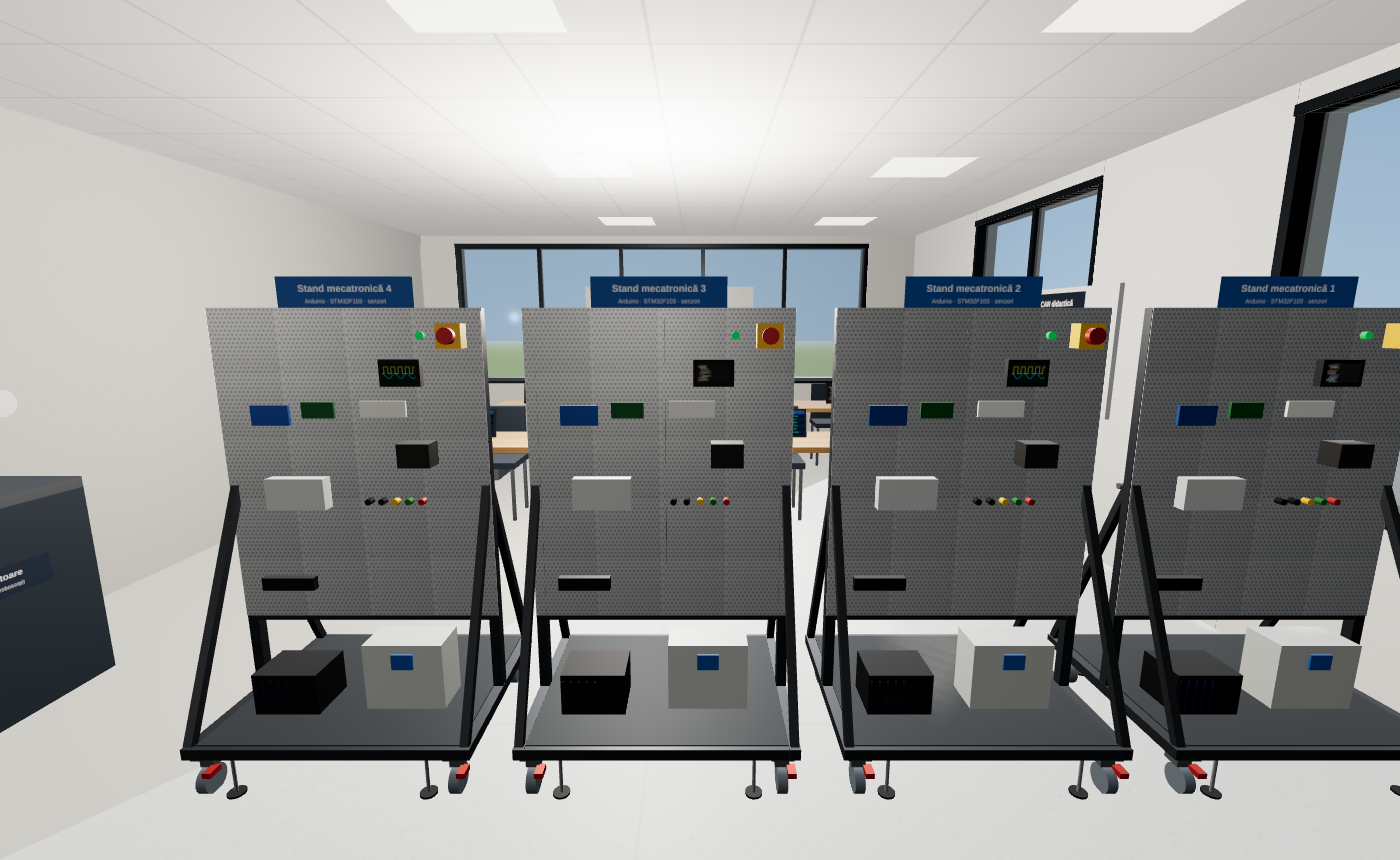
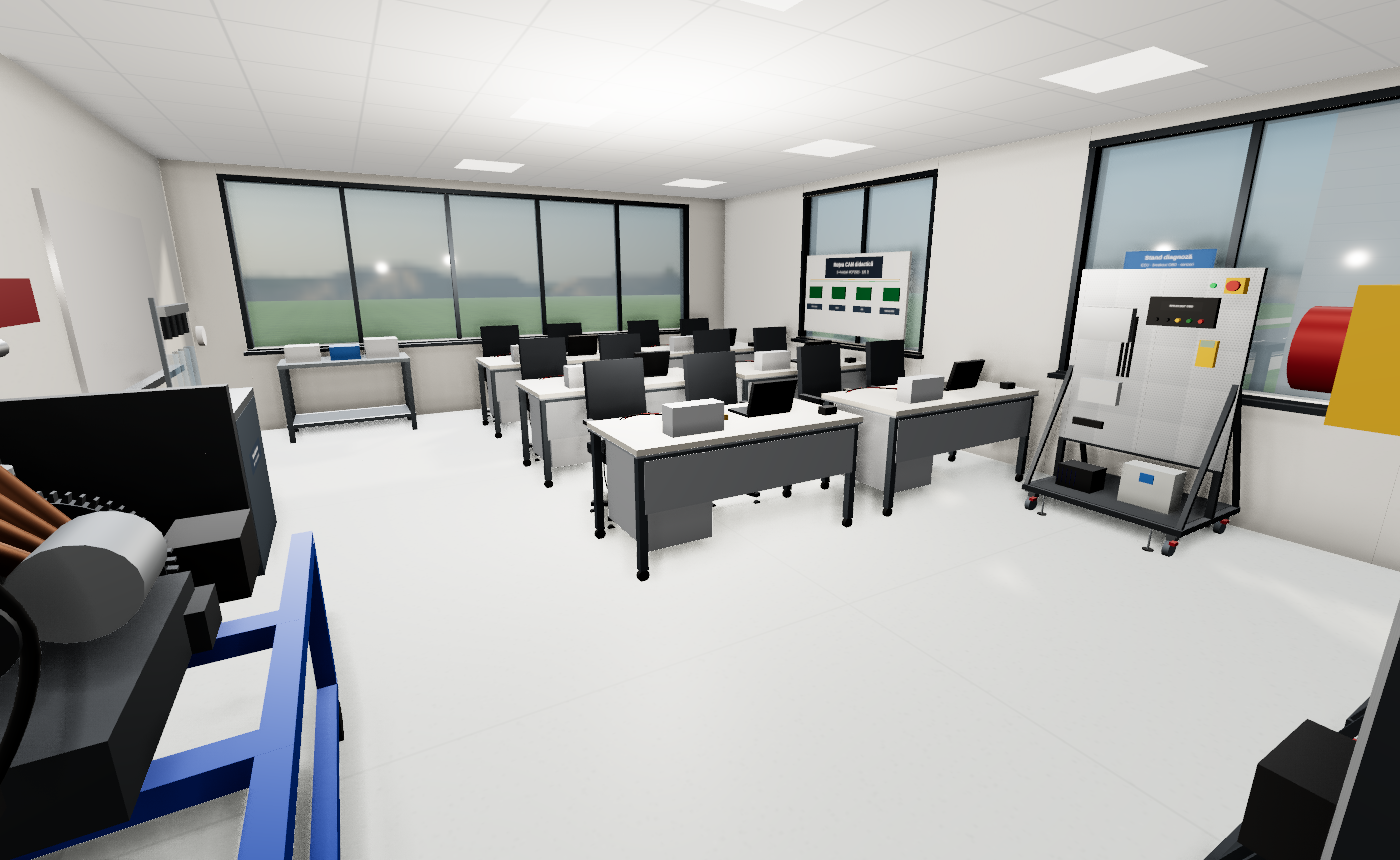
E01 Diagnosticare + Mecatronică amenajată după imaginea concept
- standurile mobile (proiect propriu) aliniate ca perete de panouri la fundul sălii
- mese de laborator pe 3 rânduri cu fața spre panouri: blat laminat, cadru pe roți, sertare, laptop cu forme de undă, osciloscop de banc, multimetru, cabluri
- motor 1.6 8V pe stand albastru pentru diagnoză, dulap de scule albastru, tablă albă, masă cu aparate

Claude-Session: https://claude.ai/code/session_01TZFbCrNL5Qe3p3aSQB4Bo5

diff --git a/js/equipment.js b/js/equipment.js
@@ -287,6 +287,22 @@ function pcDesk(kind = 'cad', seed = 1) {
 }
 function labScope(seed = 1) { const g = new THREE.Group(); B(g, 0.34, 0.17, 0.13, C(0xd9dcdf, { roughness: 0.5 }), 0, 0, 0); screen(g, 0.17, 0.11, 'scope', seed, -0.06, 0.03, 0.066); for (let i = 0; i < 6; i++) Cy(g, 0.01, 0.01, C(0x333), 0.07 + (i % 2) * 0.05, 0.04 + Math.floor(i / 2) * 0.04, 0.07, 'z', 10); for (let i = 0; i < 4; i++) Cy(g, 0.007, 0.012, [MAT.yellow, C(0x22aaee), C(0xdd44aa), MAT.green][i], -0.12 + i * 0.045, 0.015, 0.07, 'z', 10); return g; }
 function benchPSU() { const g = new THREE.Group(); B(g, 0.22, 0.13, 0.25, C(0x2b2f33), 0, 0, 0); B(g, 0.09, 0.04, 0.005, C(0x0a0a0a), -0.05, 0.08, 0.126); plate(g, '12.00 V', '', 0.08, -0.05, 0.1, 0.13, 0, '#300'); Cy(g, 0.008, 0.012, MAT.red, 0.06, 0.03, 0.13, 'z', 8); Cy(g, 0.008, 0.012, MAT.black, 0.085, 0.03, 0.13, 'z', 8); return g; }
+function labDesk(seed = 0) {   // masă de laborator: blat laminat deschis, cadru gri pe roți, corp cu sertare, aparatură și cabluri
+  const g = new THREE.Group(); const top = C(0xe4e0d6, { roughness: 0.45 }), fr = C(0x5d656c, { metalness: 0.5, roughness: 0.4 });
+  B(g, 1.6, 0.035, 0.75, top, 0, 0.74, 0); B(g, 1.6, 0.012, 0.75, C(0x9aa0a6), 0, 0.728, 0);
+  for (const x of [-0.76, 0.76]) for (const z of [-0.33, 0.33]) { B(g, 0.05, 0.66, 0.05, fr, x, 0.07, z); Cy(g, 0.035, 0.03, MAT.rubber, x, 0.035, z, 'z', 12); }
+  B(g, 1.5, 0.05, 0.05, fr, 0, 0.68, -0.33); B(g, 1.5, 0.3, 0.012, C(0xb9bec3, { metalness: 0.3 }), 0, 0.4, -0.35);
+  B(g, 0.42, 0.55, 0.6, C(0xc9cdd1, { metalness: 0.3 }), 0.5, 0.15, 0); for (let i = 0; i < 3; i++) { B(g, 0.4, 0.16, 0.01, C(0xd5d8db), 0.5, 0.18 + i * 0.18, 0.305); B(g, 0.12, 0.012, 0.012, MAT.dark, 0.5, 0.3 + i * 0.18, 0.31); }
+  const lt = laptop(seed * 3 + 1); lt.position.set(-0.3, 0.775, 0.08); g.add(lt);
+  lt.traverse(o => { if (o.isMesh && o.material.map) o.material = scr('scope', seed + 40); });
+  const sc = labScope(seed + 11); sc.position.set(0.35, 0.775, -0.18); g.add(sc);
+  B(g, 0.08, 0.035, 0.15, MAT.yellow, 0.05, 0.775, 0.05);                                              // multimetru
+  for (const [c, dx] of [[MAT.red, 0], [C(0x111111), 0.03]]) { const cv = new THREE.CatmullRomCurve3([new THREE.Vector3(0.1 + dx, 0.79, -0.1), new THREE.Vector3(0.2 + dx, 0.8, 0.1), new THREE.Vector3(0.6 + dx, 0.76, 0.33), new THREE.Vector3(0.65 + dx, 0.3, 0.36), new THREE.Vector3(0.4 + dx, 0.05, 0.3)]); const m = new THREE.Mesh(new THREE.TubeGeometry(cv, 24, 0.004, 6), c); g.add(m); }
+  B(g, 0.1, 0.05, 0.07, C(0x222222), -0.65, 0.775, -0.2);                                              // adaptor USB-CAN / interfață
+  for (const x of [-0.4, 0.4]) { const c = officeChair(); c.position.set(x, 0, 0.62); c.rotation.y = Math.PI; g.add(c); }
+  return g;
+}
+function instrumentTable() { const g = steelTable(1.2, 0.6, 0.8); const box = (w, h, d, x, z, col, sk, sd) => { B(g, w, h, d, C(col, { roughness: 0.5 }), x, 0.8, z); if (sk) screen(g, w * 0.45, h * 0.45, sk, sd, x - w * 0.18, 0.8 + h * 0.3, z + d / 2 + 0.002); }; box(0.32, 0.2, 0.3, -0.35, 0, 0xd9dcdf, 'scope', 71); box(0.28, 0.14, 0.28, 0.0, 0, 0x2b6cb0, 'diag', 72); box(0.3, 0.16, 0.28, 0.38, 0, 0xe6e9ea, 'scope', 73); return g; }
 function tvDisplay(w = 1.9, kind = 'cad', seed = 90) { const g = new THREE.Group(); B(g, w, w * 0.57, 0.05, C(0x111214), 0, 1.0, 0); const sc = new THREE.Mesh(new THREE.PlaneGeometry(w - 0.04, w * 0.57 - 0.04), scr(kind, seed)); sc.position.set(0, 1.0 + w * 0.285, 0.026); g.add(sc); return g; }
 function whiteboard(w = 3) { const g = new THREE.Group(); B(g, w, 1.2, 0.03, C(0xfafafa, { roughness: 0.15 }), 0, 0.9, 0); B(g, w, 0.05, 0.1, MAT.alu, 0, 0.88, 0.05); return g; }
 function projectorScreen(w = 2.4) { const g = new THREE.Group(); B(g, w + 0.1, 0.1, 0.1, MAT.white, 0, 2.6, 0); B(g, w, 1.5, 0.005, C(0xffffff, { emissive: 0x111111 }), 0, 1.1, 0.04); return g; }
@@ -784,7 +800,6 @@ export function buildEquipment(scene) {
   // ===================== P03 LABORATOR PCMAI + CCMAI (x 14.15–19.8, y 0.2–16.14)
   put(engineStand('MPI'), 15.9, 16.0, 0, 0, info('Stand motor Otto 1.4 MPI (K7J, injecție multipunct)', D.PCMAI + ' · ' + D.DA + ' · ' + D.SAA, ['PCMAI – caracteristici, raport de compresie', 'Diagnosticare L1–L4 (AVL, senzori, actuatori, etanșeitate)', 'SAA L1–L2 (consum, injecție), L4 ungere, L5 răcire, L7 demaror'], 'Caiet de sarcini Laborator Motoare Termice; îndrumare SAA/Diagnosticare 2026-2027'));
   put(engineStand('dCi'), 18.5, 16.0, 0, 0, info('Stand motor Diesel 1.5 dCi (common rail, turbo)', D.CCMAI + ' · ' + D.DA + ' · ' + D.SAA, ['Diagnosticare L5 – sistem de alimentare MAC / EGR', 'SAA L3 injecție diesel, L6 turbosuflantă cu geometrie variabilă', 'CCMAI – construcția mecanismului motor'], 'Caiet de sarcini Laborator Motoare Termice; îndrumar SAA 2026-2027'));
-  put(engineStand('8V'), 17.2, 18.9, 180, 0, info('Stand motor 1.6 8V cu senzoristică', D.DA, ['Diagnosticare L2 – metode de diagnosticare a senzorilor', 'Diagnosticare L3 – diagnosticarea actuatorilor'], 'Îndrumar Diagnosticare 2026-2027, tabel echipamente'));
   put(smartCutaway(), 16.6, 2.6, 0, 0, info('Machetă secționată Smart ForTwo', D.BAZ + ' · ' + D.DA + ' · ' + D.CCA, ['Bazele ingineriei – identificarea subsistemelor', 'Diagnosticare L1, L6 – sisteme activate din telecomandă', 'CCA – transmisie, direcție, frâne'], 'Caiet de sarcini Laborator Motoare Termice (Fig. 1); îndrumar Diagnosticare'));
   put(avlStation(), 17.0, 12.2, 180, 0, info('Stația AVL DiTEST (DiScope 200, analizor gaze, opacimetru)', D.DA + ' · ' + D.PCMAI, ['Diagnosticare L1 – motoare termice cu standul AVL', 'L1–L5: semnale, compresie relativă, emisii', 'Achiziția simultană a min. 10 parametri'], 'Caiet de sarcini Laborator Motoare Termice; Ghid AVL'));
   put(studentDesk(1.8), 16.1, 6.4, 0, 0, info('Loc de lucru studenți (10 locuri)', D.PCMAI + ' · ' + D.CCMAI, ['Măsurători, referate, proiecte PCMAI / CCMAI'], 'Caiet de sarcini: „locuri de lucru pentru 10 studenți”; DXF A01'));
@@ -812,7 +827,7 @@ export function buildEquipment(scene) {
   put(electricalPanel(), 22.4, 19.6, 180, 0, info('Tablou electric general (TEG)', 'Instalații', ['Alimentare hale, laboratoare, stație ITP'], 'Concept'));
   put(boilerUnit(), 23.6, 19.5, 180, 0, null);
 
-  // ===================== ETAJ – E01 DIAGNOSTICARE + MECATRONICĂ (x 0.2–6.63, y 0.2–8.8)
+  // ===================== ETAJ – E01 DIAGNOSTICARE + MECATRONICĂ (x 0.2–6.63, y 0.2–8.8) – amenajare după imaginea concept
   const SRC_ST = 'Proiect_stand_mobil_panou_perforat.pdf (Beldugan 2026-2027) – cadru 1700×1000×800, tablă Al perforată; imagini ST1–ST12, BB1–BB5';
   const MECA = [
     ['L01 Microcontrolere: I/O, ADC, timere, PWM', 'L02 Condiționarea semnalelor', 'L03 Pedala de accelerație cu 2 piste', 'L04 Senzori de temperatură'],
@@ -820,12 +835,19 @@ export function buildEquipment(scene) {
     ['L08 IMU – accelerații, ruliu/tangaj', 'L09 Clapeta electronică: PWM, punte H, PID'],
     ['L10 CAN Bus – mesaje, arbitraj, decodare (USB-CAN)', 'MR4206 – ECU, ABS, ACC'],
   ];
-  [0.85, 2.0, 3.15, 4.3].forEach((x, i) => put(standMobil('meca', i + 1), x, 6.2, 180, 1, info('Stand mobil mecatronică nr. ' + (i + 1) + ' (proiect propriu)', D.MAM1 + ' · ' + D.MAM2, MECA[i], SRC_ST, 'Platformă dedicată Arduino + STM32F103 pe tabla perforată; 12 V pe panou, 230 V doar în cutia IP54 de pe poliță; E-stop la 1600 mm.')));
-  put(standMobil('diag', 5), 6.05, 3.6, -90, 1, info('Stand mobil diagnoză – ECU + breakout OBD (proiect propriu)', D.DA, ['L2 Metode de diagnosticare a senzorilor', 'L3 Diagnosticarea actuatorilor', 'L7 Magistrala CAN (pini 6/14, 120 Ω)'], SRC_ST + '; Lista dezmembrări Diagnosticare/MAM I'));
-  put(canBoard(), 0.25, 3.6, 90, 1, info('Rețea CAN didactică cu 3–4 noduri și gateway OBD-II', D.MAM1 + ' · ' + D.DA, ['Mecatronică L10', 'Diagnosticare L7 – magistrala de date CAN (terminare 120 Ω)'], 'Standuri lucrări de diplomă AR IV 2026-2027, nr. 12'), false);
-  put(injectorStand(), 6.1, 6.2, -90, 1, info('Stand verificare injectoare benzină', D.DA, ['Diagnosticare L4 – presiune, debit, menținerea presiunii', 'L2 – semnalul injectorului pe osciloscop'], 'Standuri lucrări de diplomă AR IV 2026-2027, nr. 2'));
-  for (const [x, y] of [[1.5, 1.6], [4.2, 1.6], [1.5, 3.8], [4.2, 3.8]]) { put(studentDesk(1.6), x, y, 0, 1, null); put(labScope(Math.round(x * 7 + y)), x - 0.15, y + 0.2, 0, 1, null, false, 0.77); put(benchPSU(), x + 0.25, y + 0.2, 0, 1, null, false, 0.77); for (const dx of [-0.4, 0.4]) put(laptop(Math.round(x * 3 + y + dx * 4)), x + dx, y + 0.05, 180, 1, null, false, 0.75); }
-  put(whiteboard(2.2), 3.4, 0.25, 0, 1, null, false);
+  // peretele de panouri: cele 4 standuri mobile (proiect propriu) aliniate la fundul sălii, cu fața spre mese
+  [0.85, 2.0, 3.15, 4.3].forEach((x, i) => put(standMobil('meca', i + 1), x, 8.25, 0, 1, info('Stand mobil mecatronică nr. ' + (i + 1) + ' (proiect propriu)', D.MAM1 + ' · ' + D.MAM2, MECA[i], SRC_ST, 'Platformă dedicată Arduino + STM32F103 pe tabla perforată; 12 V pe panou, 230 V doar în cutia IP54 de pe poliță; E-stop la 1600 mm.')));
+  // motor pe stand albastru pentru diagnoză (colțul din dreapta), dulap de scule albastru, tablă albă
+  put(engineStand('8V'), 5.95, 6.75, -90, 1, info('Stand motor 1.6 8V (K7J) cu senzoristică – diagnoză', D.DA, ['Diagnosticare L2 – metode de diagnosticare a senzorilor', 'L3 – diagnosticarea actuatorilor', 'L4 – etanșeitatea camerei de ardere'], 'Îndrumar Diagnosticare 2026-2027, tabel echipamente; imagine concept'));
+  put(toolCabinet(MAT.blue), 6.3, 4.9, -90, 1, info('Dulap de scule (diagnoză)', D.DA, ['Sonde, adaptoare, cabluri de măsură'], 'Imagine concept'));
+  put(whiteboard(2.0), 6.6, 2.6, -90, 1, null, false);
+  put(standMobil('diag', 5), 0.75, 6.3, 90, 1, info('Stand mobil diagnoză – ECU + breakout OBD (proiect propriu)', D.DA, ['L2 Metode de diagnosticare a senzorilor', 'L3 Diagnosticarea actuatorilor', 'L7 Magistrala CAN (pini 6/14, 120 Ω)'], SRC_ST + '; Lista dezmembrări Diagnosticare/MAM I'));
+  put(canBoard(), 0.25, 3.0, 90, 1, info('Rețea CAN didactică cu 3–4 noduri și gateway OBD-II', D.MAM1 + ' · ' + D.DA, ['Mecatronică L10', 'Diagnosticare L7 – magistrala de date CAN (terminare 120 Ω)'], 'Standuri lucrări de diplomă AR IV 2026-2027, nr. 12'), false);
+  put(instrumentTable(), 5.3, 0.7, 0, 1, info('Masă cu aparate: generator de semnal, sursă dublă, osciloscop de rezervă', D.DA + ' · ' + D.MAM1, ['Generarea semnalelor de test pentru senzori'], 'Imagine concept'));
+  put(injectorStand(), 6.1, 3.85, -90, 1, info('Stand verificare injectoare benzină', D.DA, ['Diagnosticare L4 – presiune, debit, menținerea presiunii', 'L2 – semnalul injectorului pe osciloscop'], 'Standuri lucrări de diplomă AR IV 2026-2027, nr. 2'));
+  // mese de laborator pe 3 rânduri, cu fața spre peretele de panouri
+  let ld = 0;
+  for (const y of [1.5, 3.3, 5.1]) for (const x of [1.35, 3.25]) put(labDesk(ld++), x, y, 0, 1, ld === 1 ? info('Masă de laborator – laptop, osciloscop de banc, multimetru', D.DA + ' · ' + D.MAM1, ['Achiziția și analiza semnalelor de la senzori și actuatori', 'Programare Arduino / STM32 (PlatformIO)'], 'Imagine concept „Diagnosticare + Mecatronică”') : null);
 
   // ===================== E02 CCA (x 6.78–13.22, y 0.2–8.8)
   put(displayTable([gearboxCut, clutch, clutch], 'Ambreiaje · cutii de viteze'), 8.4, 2.6, 180, 1, info('Ambreiaje mono/bidisc și cutie de viteze Dacia (secționate)', D.CCA, ['Ambreiaje – cursa de decuplare/cuplare', 'Cutii de viteze cu axe paralele și planetare – rapoarte de transmitere', 'Demontare / montare cutie Dacia 5 trepte'], 'Fișa CCA (Mitroi) – lucrări 1–2'));
